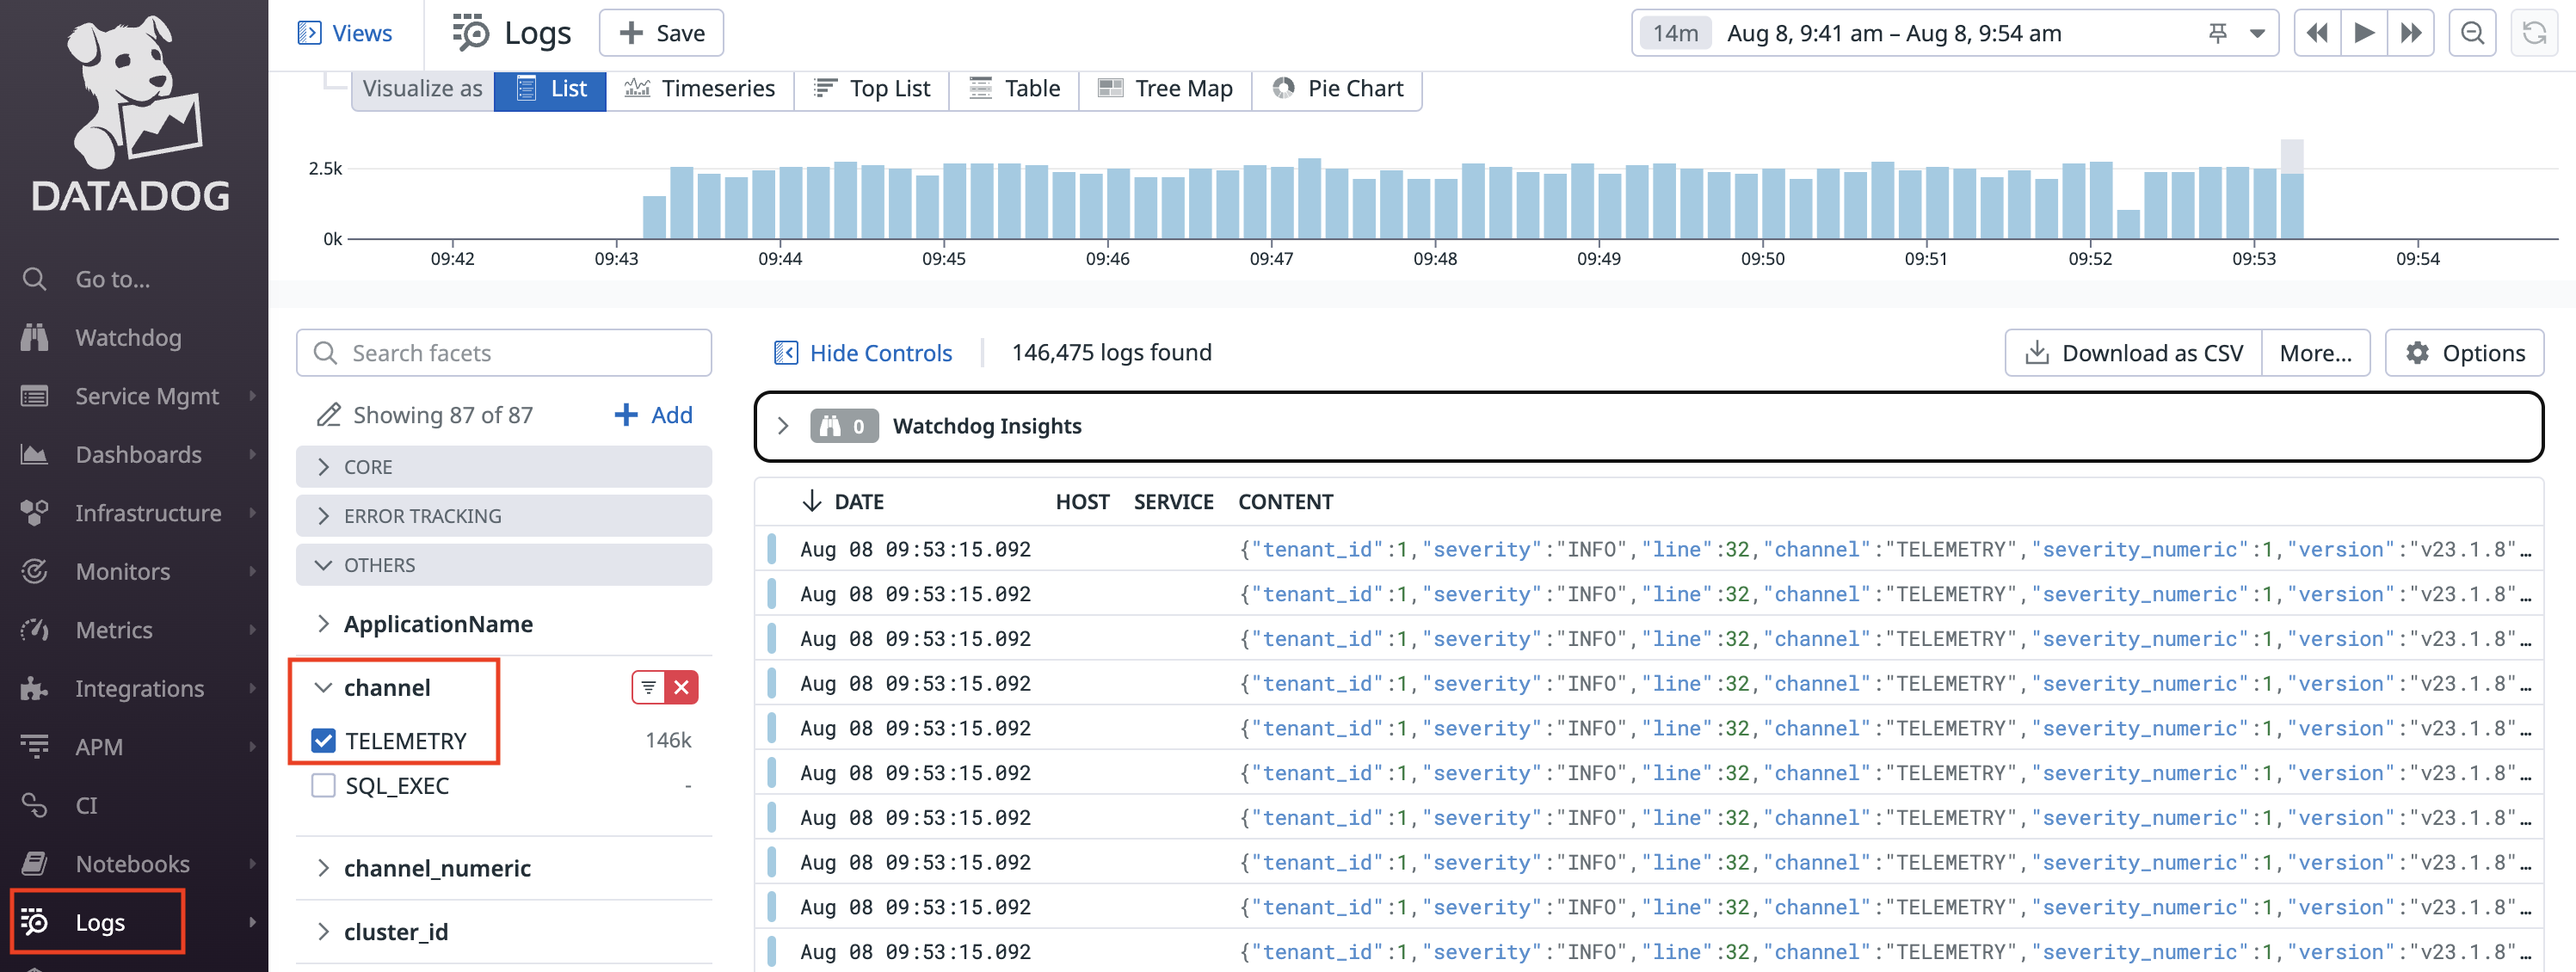
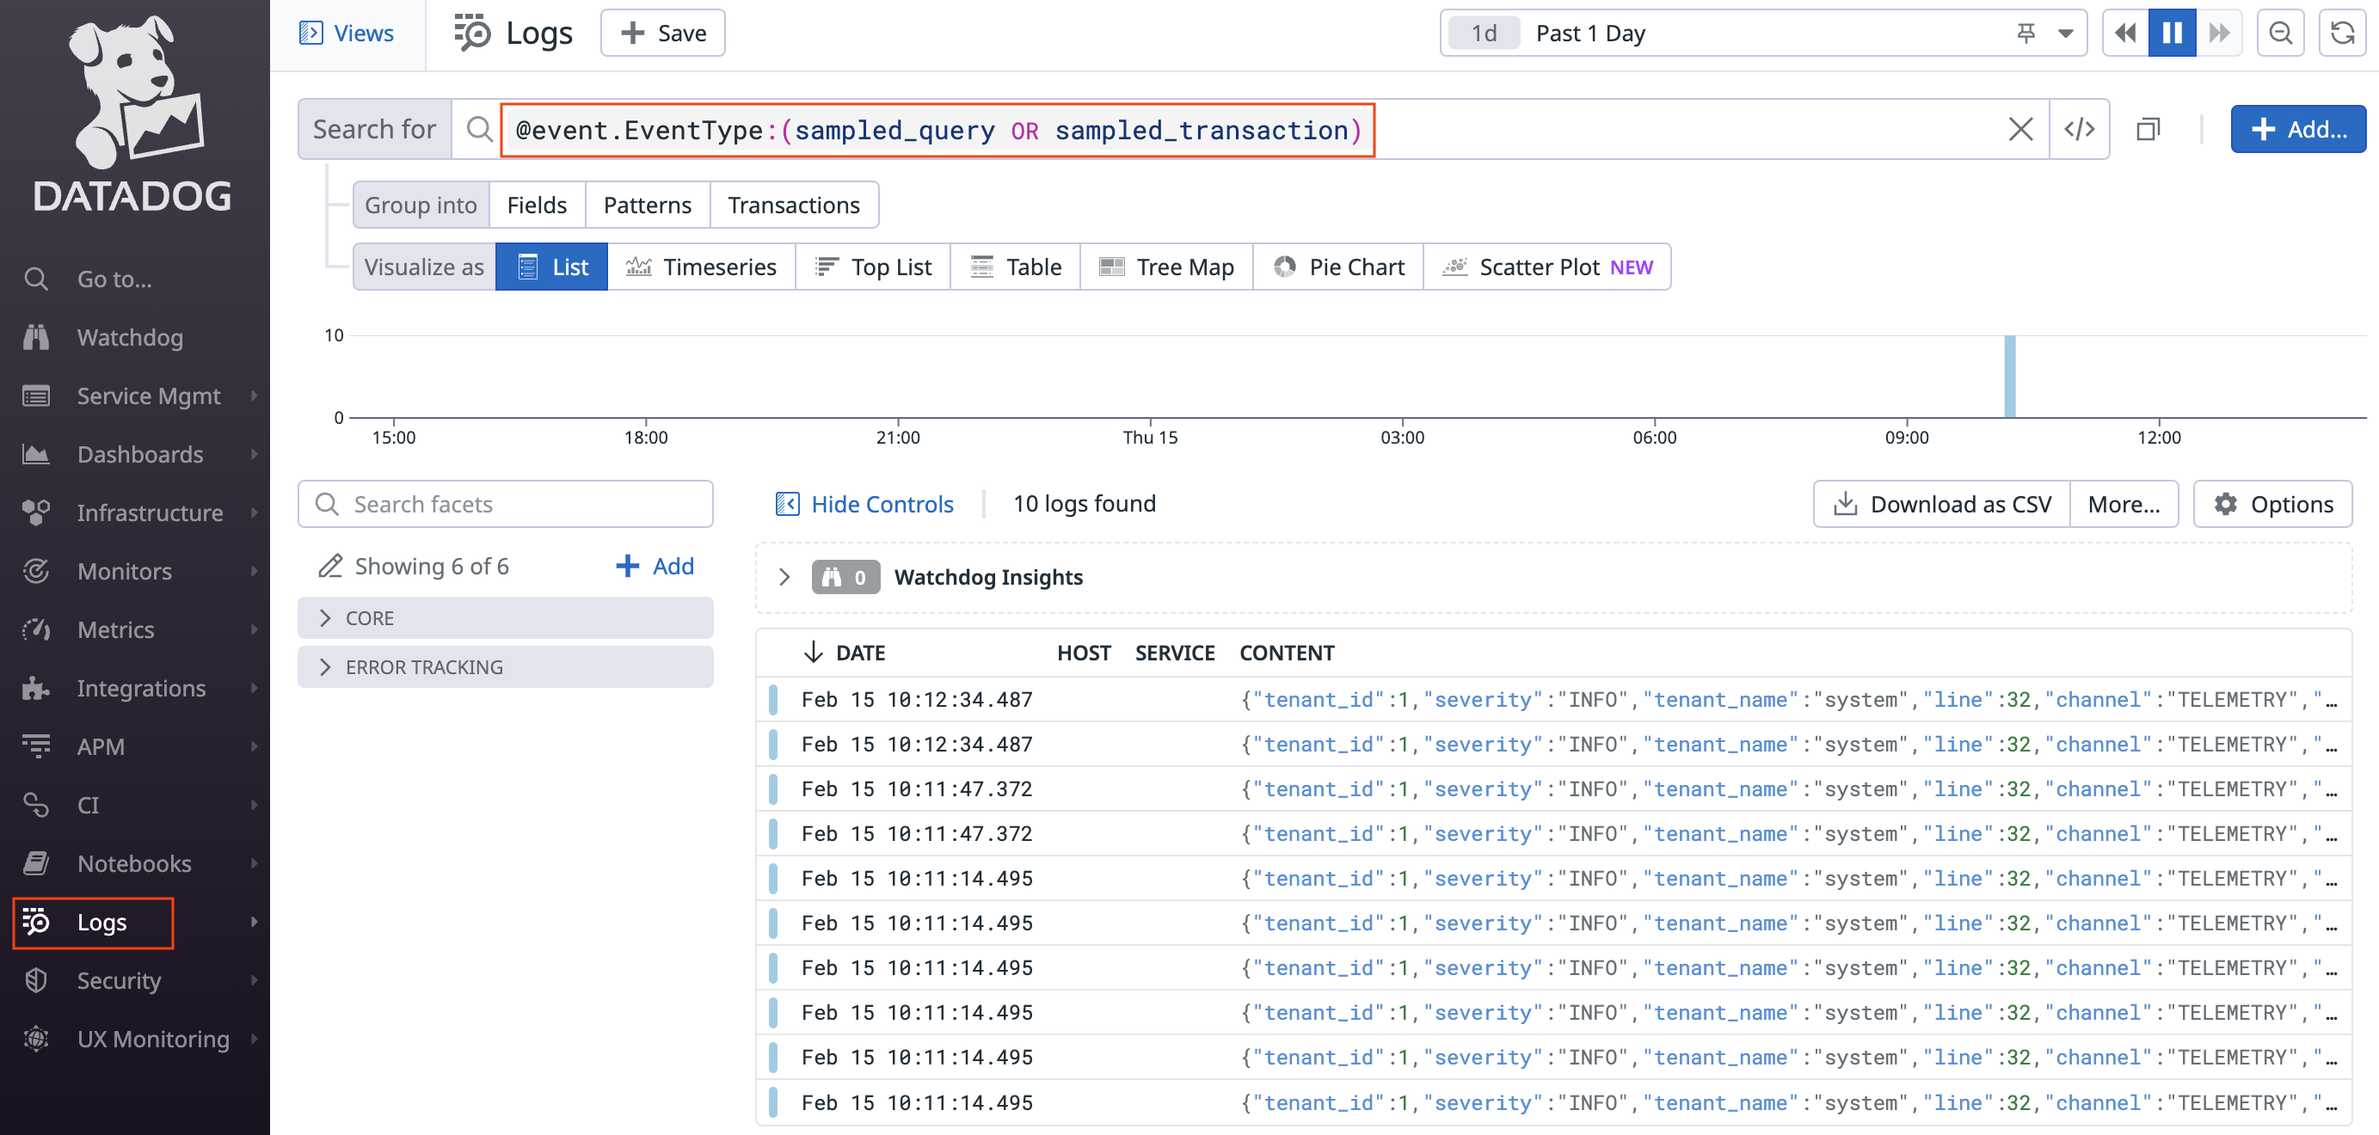
In log-sql-statistics-to-datadog.md, (a) updated with sampled_transaction, (b) inserted optional step 4 to emit transaction events, (c ) updated datadog image with search string.

diff --git a/src/current/v23.2/log-sql-statistics-to-datadog.md b/src/current/v23.2/log-sql-statistics-to-datadog.md
@@ -5,9 +5,9 @@ toc: true
 docs_area: manage
 ---
 
-This tutorial describes how to configure logging of [`sampled_query` events]({% link {{ page.version.version }}/eventlog.md %}#sampled_query) to [Datadog](https://www.datadoghq.com/) for finer granularity and long-term retention of SQL statistics. The `sampled_query` events contain common SQL event and execution details for sessions, transactions, and statements.
+This tutorial describes how to configure logging of telemetry events, including [`sampled_query`]({% link {{ page.version.version }}/eventlog.md %}#sampled_query) and `sampled_transaction`, to [Datadog](https://www.datadoghq.com/) for finer granularity and long-term retention of SQL statistics. The `sampled_query` and `sampled_transaction` events contain common SQL event and execution details for statements and transactions.
 
-CockroachDB supports a built-in integration with Datadog which sends query events as logs via the [Datadog HTTP API](https://docs.datadoghq.com/api/latest/logs/). This integration is the recommended path to achieve high throughput data ingestion, which will in turn provide more query events for greater workload observability.
+CockroachDB supports a built-in integration with Datadog which sends these events as logs via the [Datadog HTTP API](https://docs.datadoghq.com/api/latest/logs/). This integration is the recommended path to achieve high throughput data ingestion, which will in turn provide more query and transaction events for greater workload observability.
 
 {{site.data.alerts.callout_info}}
 {% include feature-phases/preview.md %}
@@ -24,16 +24,16 @@ CockroachDB supports a built-in integration with Datadog which sends query event
 Configure an [HTTP network collector]({% link {{ page.version.version }}/configure-logs.md %}#output-to-http-network-collectors) by creating or modifying the [`logs.yaml` file]({% link {{ page.version.version }}/configure-logs.md %}#yaml-payload).
 
 {{site.data.alerts.callout_danger}}
-Given the [volume of `sampled_query` events](#step-3-configure-cockroachdb-to-emit-query-events), do not write `sampled_query` events to disk, or [`file-groups`]({% link {{ page.version.version }}/configure-logs.md %}#output-to-files). Writing a high volume of `sampled_query` events to a file group will unnecessarily consume cluster resources and impact workload performance. 
+Given the [volume of `sampled_query` and `sampled_transaction` events](#step-3-configure-cockroachdb-to-emit-query-events), do not write these events to disk, or [`file-groups`]({% link {{ page.version.version }}/configure-logs.md %}#output-to-files). Writing a high volume of `sampled_query` and `sampled_transaction` events to a file group will unnecessarily consume cluster resources and impact workload performance. 
 
-To disable the creation of a telemetry file and avoid writing `sampled_query` events and other [telemetry events]({% link {{ page.version.version }}/eventlog.md %}#telemetry-events) to disk, change the telemetry `file-groups` setting from the [default of `channels: [TELEMETRY]`]({% link {{ page.version.version }}/configure-logs.md %}#default-logging-configuration) to `channels: []`.
+To disable the creation of a telemetry file and avoid writing `sampled_query` and `sampled_transaction` events and other [telemetry events]({% link {{ page.version.version }}/eventlog.md %}#telemetry-events) to disk, change the telemetry `file-groups` setting from the [default of `channels: [TELEMETRY]`]({% link {{ page.version.version }}/configure-logs.md %}#default-logging-configuration) to `channels: []`.
 {{site.data.alerts.end}}
 
 In this `logs.yaml` example:
 
-   1. To send `sampled_query` events directly to Datadog without writing events to disk, override telemetry default configuration by setting `file-groups: telemetry: channels:` to `[]`.
+   1. To send telemetry events directly to Datadog without writing events to disk, override telemetry default configuration by setting `file-groups: telemetry: channels:` to `[]`.
    1. To connect to Datadog, replace `{DATADOG API KEY}` with the value you copied in Step 1.
-   1. To control the ingestion and potential drop rate for `sampled_query` events, configure the following `buffering` values depending on your workload:
+   1. To control the ingestion and potential drop rate for telemetry events, configure the following `buffering` values depending on your workload:
 
    - `max-staleness`: The maximum time a log message will wait in the buffer before a flush is triggered. Set to `0` to disable flushing based on elapsed time. Default: `5s`
    - `flush-trigger-size`: The number of bytes that will trigger the buffer to flush. Set to `0` to disable flushing based on accumulated size. Default: `1MiB`. In this example, override to `2.5MiB`.
@@ -71,6 +71,13 @@ Enable the [`sql.telemetry.query_sampling.enabled` cluster setting]({% link {{ p
 SET CLUSTER SETTING sql.telemetry.query_sampling.enabled = true;
 ~~~
 
+Set the [`sql.telemetry.query_sampling.mode` cluster setting]({% link {{ page.version.version }}/cluster-settings.md %}) to `statement` so that `sampled_query` events are emitted (`sampled_transaction` events will not be emitted):
+
+{% include_cached copy-clipboard.html %}
+~~~ sql
+SET CLUSTER SETTING sql.telemetry.query_sampling.mode = 'statement';
+~~~
+
 Set the `sql.telemetry.query_sampling.max_event_frequency` cluster setting to `100000` to emit query events at a higher rate per second than the default value of `8`, which is extremely conservative for the Datadog HTTP API. This cluster setting controls the max event frequency at which CockroachDB samples queries for telemetry.
 
 {% include_cached copy-clipboard.html %}
@@ -82,12 +89,33 @@ SET CLUSTER SETTING sql.telemetry.query_sampling.max_event_frequency = 100000;
 The `sql.telemetry.query_sampling.max_event_frequency` cluster setting and the `buffering` options in the `logs.yaml` control how many events are emitted to Datadog and that can be potentially dropped. Adjust this setting and these options according to your workload, depending on the size of events and the queries per second (QPS) observed through monitoring.
 {{site.data.alerts.end}}
 
-## Step 4. Monitor TELEMETRY logs in Datadog
+## Step 4. Configure CockroachDB to emit query and transaction events (optional)
+
+Enable the [`sql.telemetry.query_sampling.enabled` cluster setting]({% link {{ page.version.version }}/cluster-settings.md %}#setting-sql-telemetry-query-sampling-enabled) so that executed queries and transactions will emit an event on the telemetry [logging channel]({% link {{ page.version.version }}/logging-overview.md %}#logging-channels):
+
+{% include_cached copy-clipboard.html %}
+~~~ sql
+SET CLUSTER SETTING sql.telemetry.query_sampling.enabled = true;
+~~~
+
+Set the [`sql.telemetry.query_sampling.mode` cluster setting]({% link {{ page.version.version }}/cluster-settings.md %}) to `transaction` so that `sampled_query` and `sampled_transaction` events are emitted:
+
+{% include_cached copy-clipboard.html %}
+~~~ sql
+SET CLUSTER SETTING sql.telemetry.query_sampling.mode = 'transaction';
+~~~
+
+Configure the following [cluster settings]({% link {{ page.version.version }}/cluster-settings.md %}) to values that are dependent on the level of granularity you require and how much performance impact from frequent logging you can tolerate:
+
+- `sql.telemetry.transaction_sampling.max_event_frequency` (default `8`) is the max event frequency (events per second) at which we sample transactions for telemetry. If sampling mode is set to 'statement', this setting is ignored. In practice, this means that we only sample a transaction if 1/max_event_frequency seconds have elapsed since the last transaction was sampled. 
+- `sql.telemetry.transaction_sampling.statement_events_per_transaction.max` (default `50`) is the maximum number of statement events to log for every sampled transaction. Note that statements that are logged by force do not adhere to this limit.
+
+## Step 5. Monitor TELEMETRY logs in Datadog
 
 1. Navigate to [**Datadog > Logs**](https://app.datadoghq.com/logs).
-1. Filter by **OTHERS > channel: TELEMETRY** to see the logs for the query events that are emitted. For example:
+1. Search for `@event.EventType:(sampled_query OR sampled_transaction)` to see the logs for the query and transaction events that are emitted. For example:
 
-<img src="{{ 'images/v23.1/datadog-telemetry-logs.png' | relative_url }}" alt="Datadog Telemetry Logs" style="border:1px solid #eee;max-width:100%" />
+<img src="{{ 'images/v23.2/datadog-telemetry-logs.png' | relative_url }}" alt="Datadog Telemetry Logs" style="border:1px solid #eee;max-width:100%" />
 
 ## See also
 
